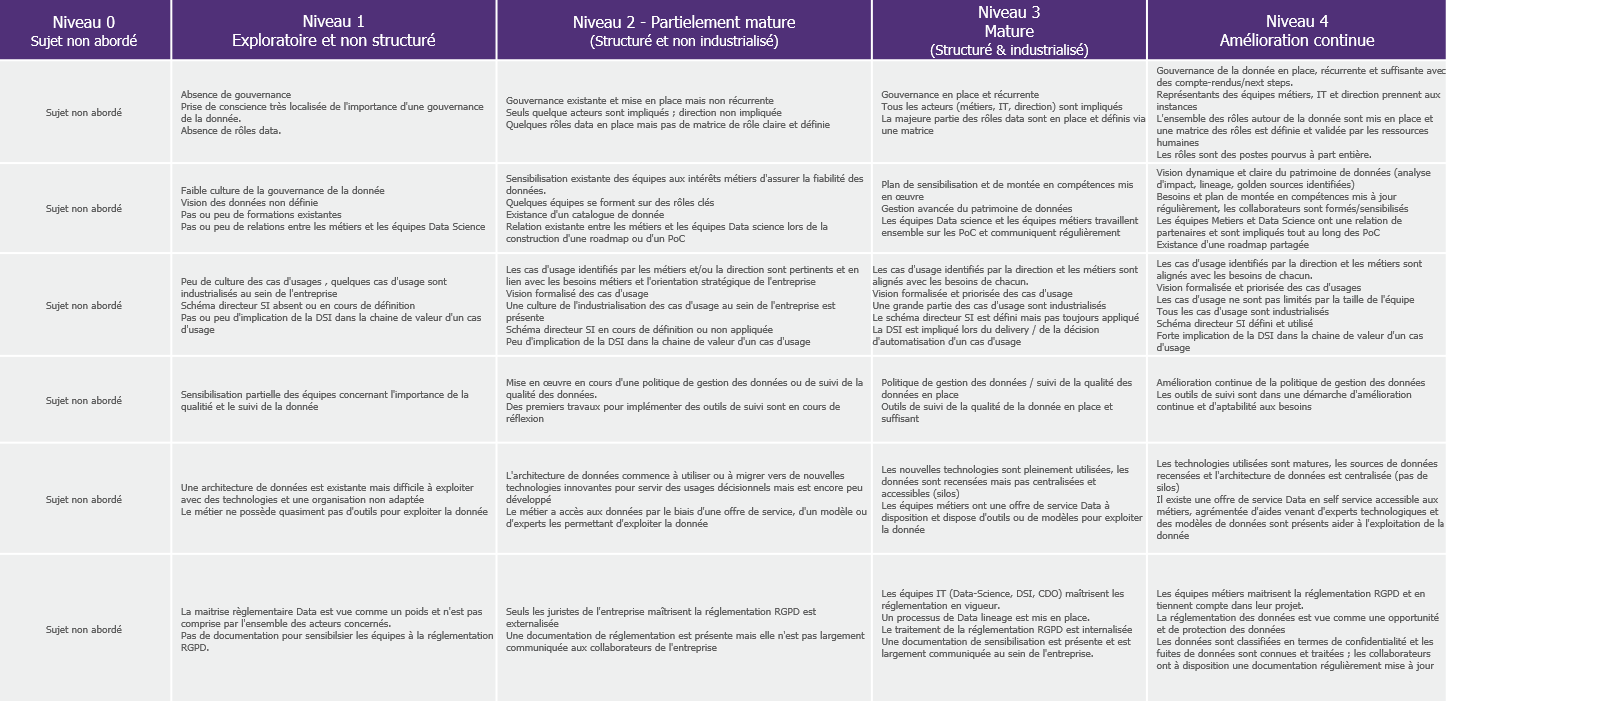
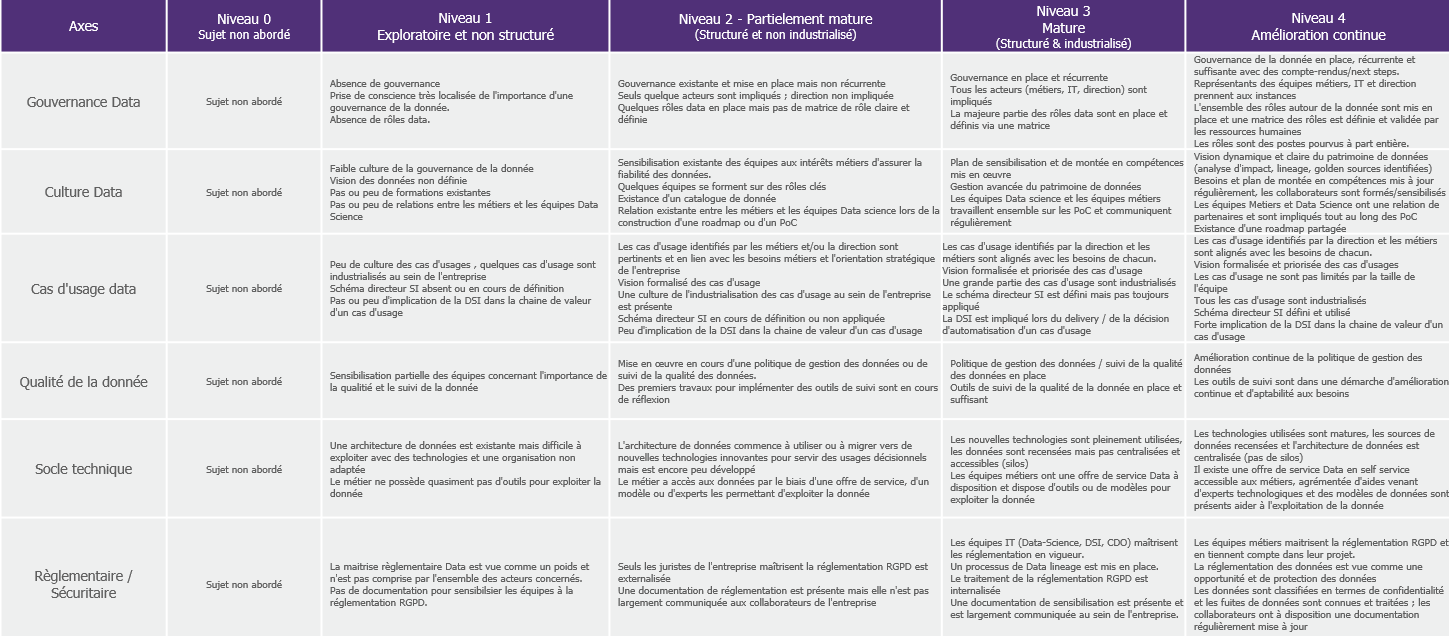
updated grille.png

Changed region(s): [[0.0, 0.0, 1.0, 0.8066], [0.0311, 0.8365, 1.0, 1.0]]

diff --git a/app.py b/app.py
@@ -205,6 +205,7 @@ if selected=="Méthodologie":
                 * Socle technique
                 * Réglementaire/Sécuritaire
                 """)
+    st.subheader("3. Grille de lecture des différents niveaux de maturité")
     image = Image.open('grille.png')
     st.image(image, caption='Grille de lecture du radar')
     
@@ -214,7 +215,7 @@ if selected == "Audit":
     placeholder = st.empty()
     with placeholder.form("formulaire"):
         st.header("Fiche d'identité de l'entreprise")
-        st.subheader("IMPORTANT : Veillez à ne pas indiquer le nom du client dans le cadre d'une mission confidentielle ou du secteur financier; indiquez uniquement son secteur d'activité")
+        st.markdown("###### IMPORTANT : Veillez à ne pas indiquer le nom du client dans le cadre d'une mission confidentielle ou du secteur financier; indiquez uniquement son secteur d'activité")
         st.text_area("", placeholder="Nom du client", key="nom")
         st.selectbox("Secteur d'activité", practice_sectorielle, key="secteur")
         st.selectbox("Taille de l'entreprise", ["0-50 employés", "51-500 employés", "501-1000 employés", "1001 à 2000 employés", "+2000 employés"], key="taille")
